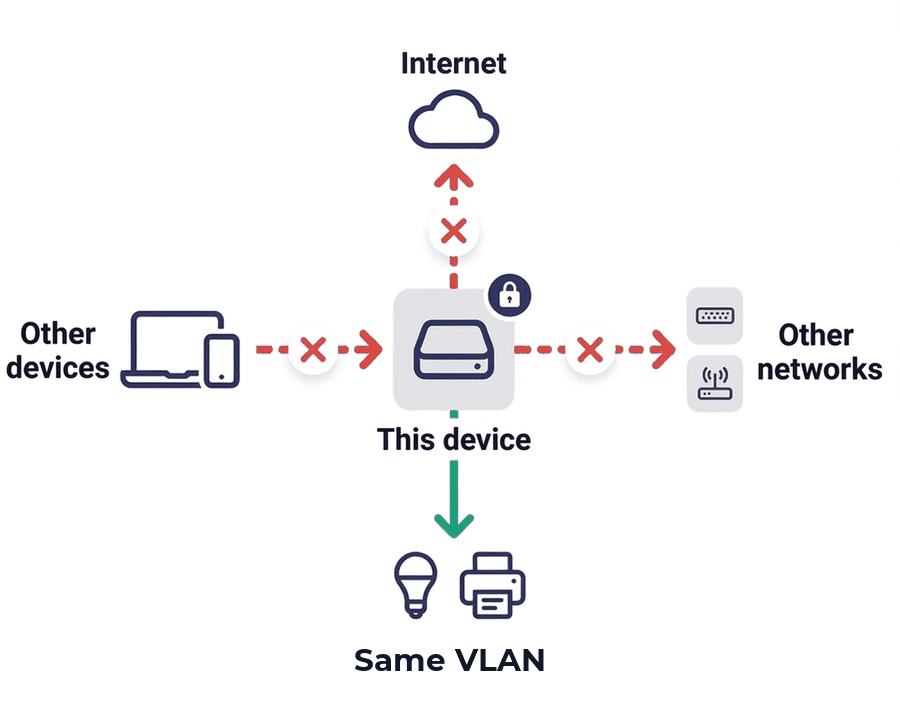
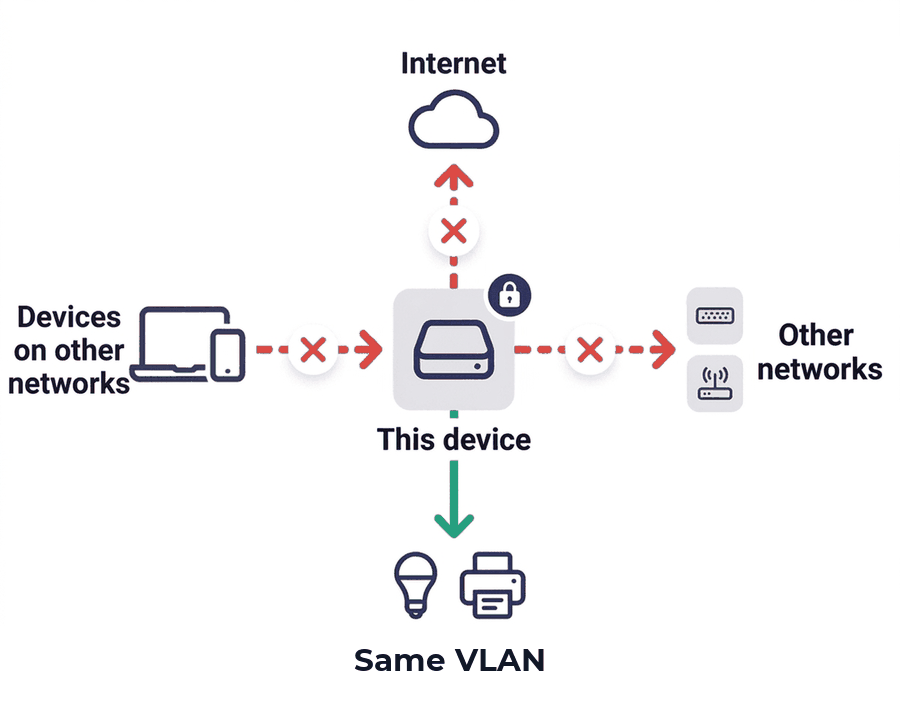
fix(house-arrest): explain network-changed results; one diagram label (1.13.1)
Picking a device on a network with its own settings changed the
"What this blocks" picture and list with nothing saying why (reported:
BirdBuddy on isolated IDIoT). networkChangeNote() now names the network
and the setting, built from the rows the network actually rewrote.

Five diagrams labelled devices on other networks as "Other devices",
which read as including same-network neighbours; all eight now say
"Devices on other networks" (copied from the Quarantine picture).

Toolkit 1.13.1, House Arrest 0.15.12.

Changed region(s): [[0.0, 0.432, 0.28, 0.5554]]

diff --git a/tools/house_arrest/static/js/app.js b/tools/house_arrest/static/js/app.js
@@ -809,6 +809,42 @@ function houseArrest() {
             'cut_off': 'nothing in or out',
         },
 
+        // Why the picture and list differ from the preset on its own. Without
+        // this the picture changed when a device was picked and nothing said
+        // why (reported 2026-10-09: BirdBuddy on isolated IDIoT). Built from
+        // the rows the network actually rewrote, so it never names a setting
+        // that isn't involved.
+        networkChangeNote() {
+            const changed = this.pathRows().filter(r => r.text).map(r => r.key);
+            if (!changed.length) return '';
+            const cs = this.selectedClients();
+            const many = cs.length > 1;
+            const it = many ? 'these devices' : 'this device';
+            const settings = [], effects = [];
+            if (changed.includes('networks') || changed.includes('inbound')) {
+                settings.push('network isolation is on');
+                if (changed.includes('networks')) effects.push(it + ' can\'t reach your other networks');
+                if (changed.includes('inbound')) effects.push('your other networks can\'t connect to ' + it);
+            }
+            if (changed.includes('internet')) {
+                settings.push('internet access is off');
+                effects.push(it + ' can\'t reach the internet');
+            }
+            if (changed.includes('peers')) {
+                settings.push('Device isolation is on');
+                effects.push('other devices on the same network are blocked from ' + it +
+                             ', on supported switches only');
+            }
+            const nets = [...new Set(cs.map(c => c.network).filter(Boolean))];
+            const who = many ? 'These devices are' : (cs[0].name || cs[0].mac) + ' is';
+            const where = nets.length ? ' on ' + nets.join(' and ') + ', where ' : ' on a network where ';
+            const join = list => list.length > 1
+                ? list.slice(0, -1).join(', ') + ' and ' + list[list.length - 1]
+                : list[0];
+            return who + where + join(settings) + '. That already means ' + join(effects) +
+                ', whatever this preset allows, so the list and picture show both together.';
+        },
+
         // Null when no picture draws this result; the template then shows a
         // hint rather than a picture that contradicts the list.
         scenarioKey() {

diff --git a/tools/house_arrest/templates/index.html b/tools/house_arrest/templates/index.html
@@ -881,6 +881,10 @@
                 <span class="paths-toggle" aria-hidden="true"></span>
             </summary>
 
+            <!-- Says why the result differs from the preset on its own, so a
+                 picture that changes when a device is picked is explained. -->
+            <p class="hint" x-show="networkChangeNote()" x-text="networkChangeNote()"></p>
+
             <!-- Two columns: the verdict list reads as a compact left rail, and
                  the picture of the same thing sits beside it. The list used to
                  stretch the full width, which pushed each verdict an inch away

diff --git a/app/main.py b/app/main.py
@@ -169,7 +169,7 @@ async def lifespan(app: FastAPI):
 app = FastAPI(
     title="UI Toolkit",
     description="Comprehensive toolkit for UniFi network management and monitoring",
-    version="1.13.0",
+    version="1.13.1",
     lifespan=lifespan
 )
 

diff --git a/tools/house_arrest/__init__.py b/tools/house_arrest/__init__.py
@@ -1,5 +1,5 @@
 """
 House Arrest - device lockdown via UniFi zone-based firewall policies
 """
-__version__ = "0.15.11"
+__version__ = "0.15.12"
 __toolkit_min_version__ = "1.11.0"

diff --git a/app/__init__.py b/app/__init__.py
@@ -1,4 +1,4 @@
 """
 UI Toolkit - Main Application Package
 """
-__version__ = "1.13.0"
+__version__ = "1.13.1"

diff --git a/CHANGELOG.md b/CHANGELOG.md
@@ -2,6 +2,12 @@
 
 All notable changes to UI Toolkit will be documented in this file.
 
+## [1.13.1] - 2026-10-09
+
+### Fixed
+- **House Arrest's "What this blocks" now says why the result changed.** Picking a device on a network with its own settings (network isolation, internet access off, or Device isolation) changes the picture and the list, and nothing on screen said why. A line above them now names the network and the setting, for example "BirdBuddy is on IDIoT, where network isolation is on. That already means your other networks can't connect to this device, whatever this preset allows."
+- **The diagrams use one label for the same thing.** Five of the eight pictures said "Other devices" for devices on your other networks, which read as if it included the device's neighbours on the same network. They now all say "Devices on other networks".
+
 ## [1.13.0] - 2026-10-09
 
 ### Added

diff --git a/docs/house-arrest-design.md b/docs/house-arrest-design.md
@@ -1110,6 +1110,12 @@ one in PIL, so the art cannot drift. A result with no entry still shows the
 "no picture for this one" hint. **If a preset's effects change, check every
 `SCENARIOS` entry it can produce, not just its own image.**
 
+**UPDATED 2026-10-09 (1.13.1):** every picture's left label now reads
+"Devices on other networks" (five said "Other devices", which read as
+including same-network neighbours; replaced in PIL from the Quarantine
+picture). `networkChangeNote()` explains above the list whenever the
+device's network rewrote a row, naming the network and the setting.
+
 Images were generated with Gemini (Nano Banana) and are flat-vector art on a
 white ground in both themes, framed in their own white card. They are cropped,
 resized to 900px wide and palette-quantised (~40 KB each).
